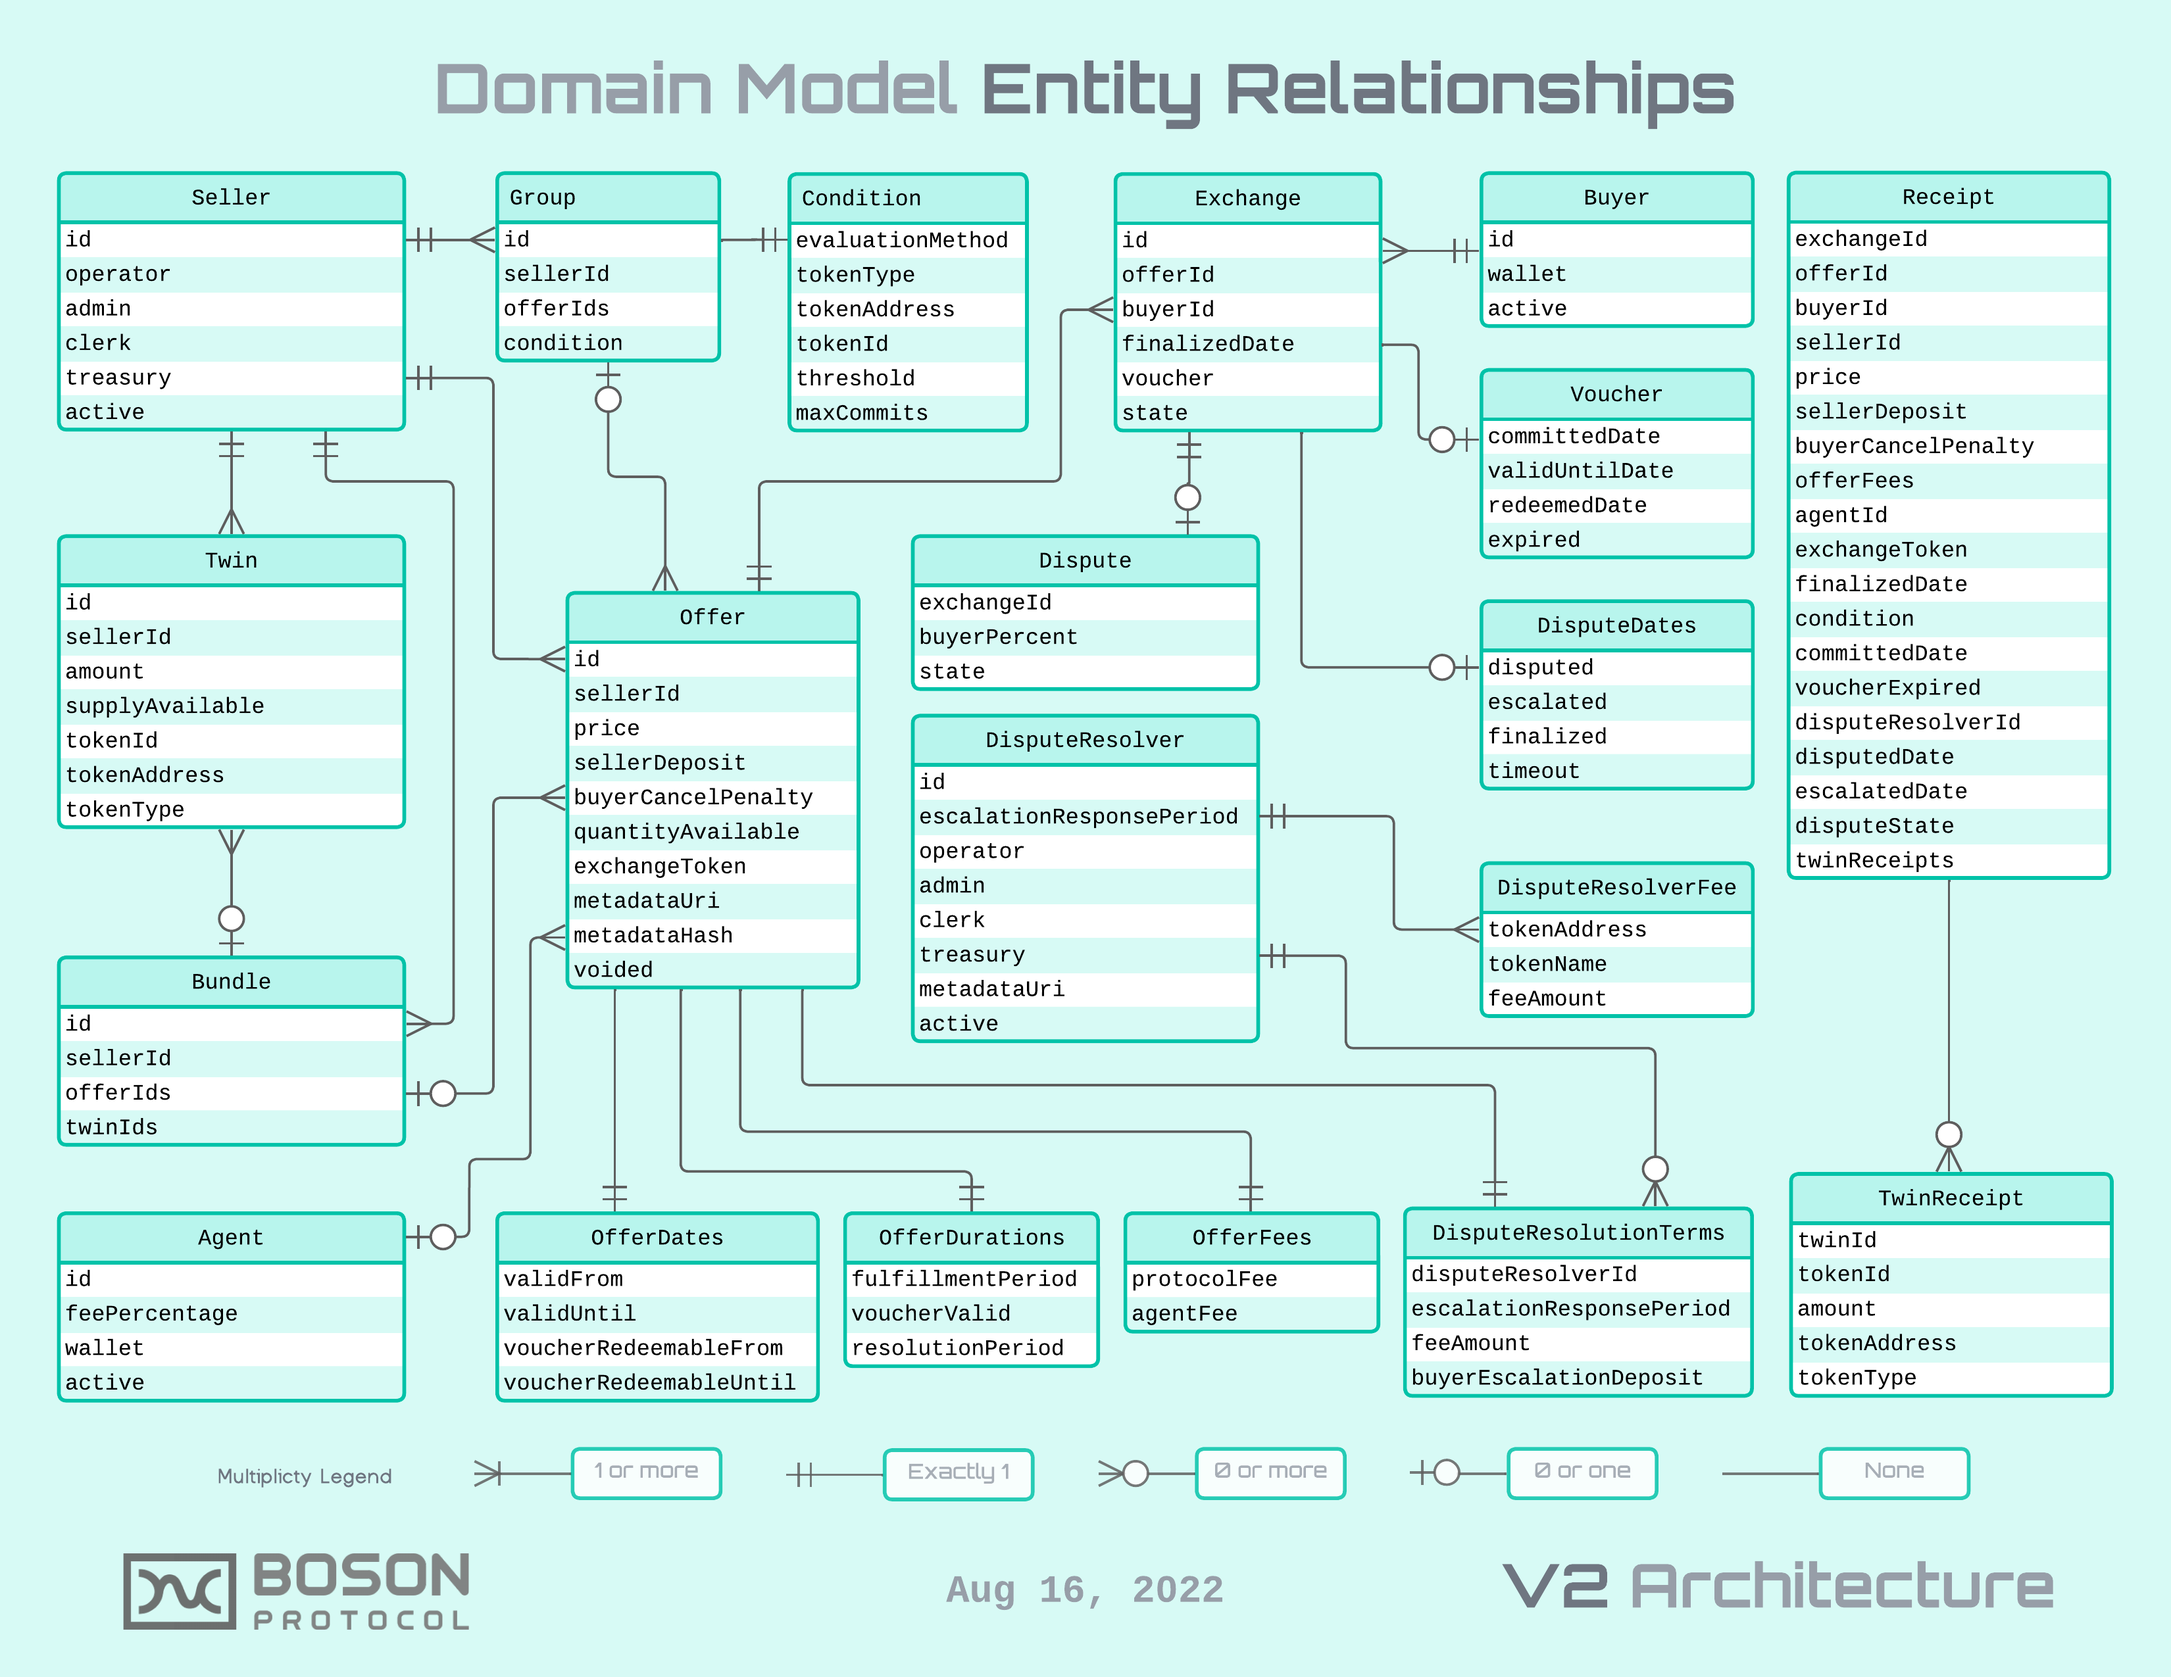
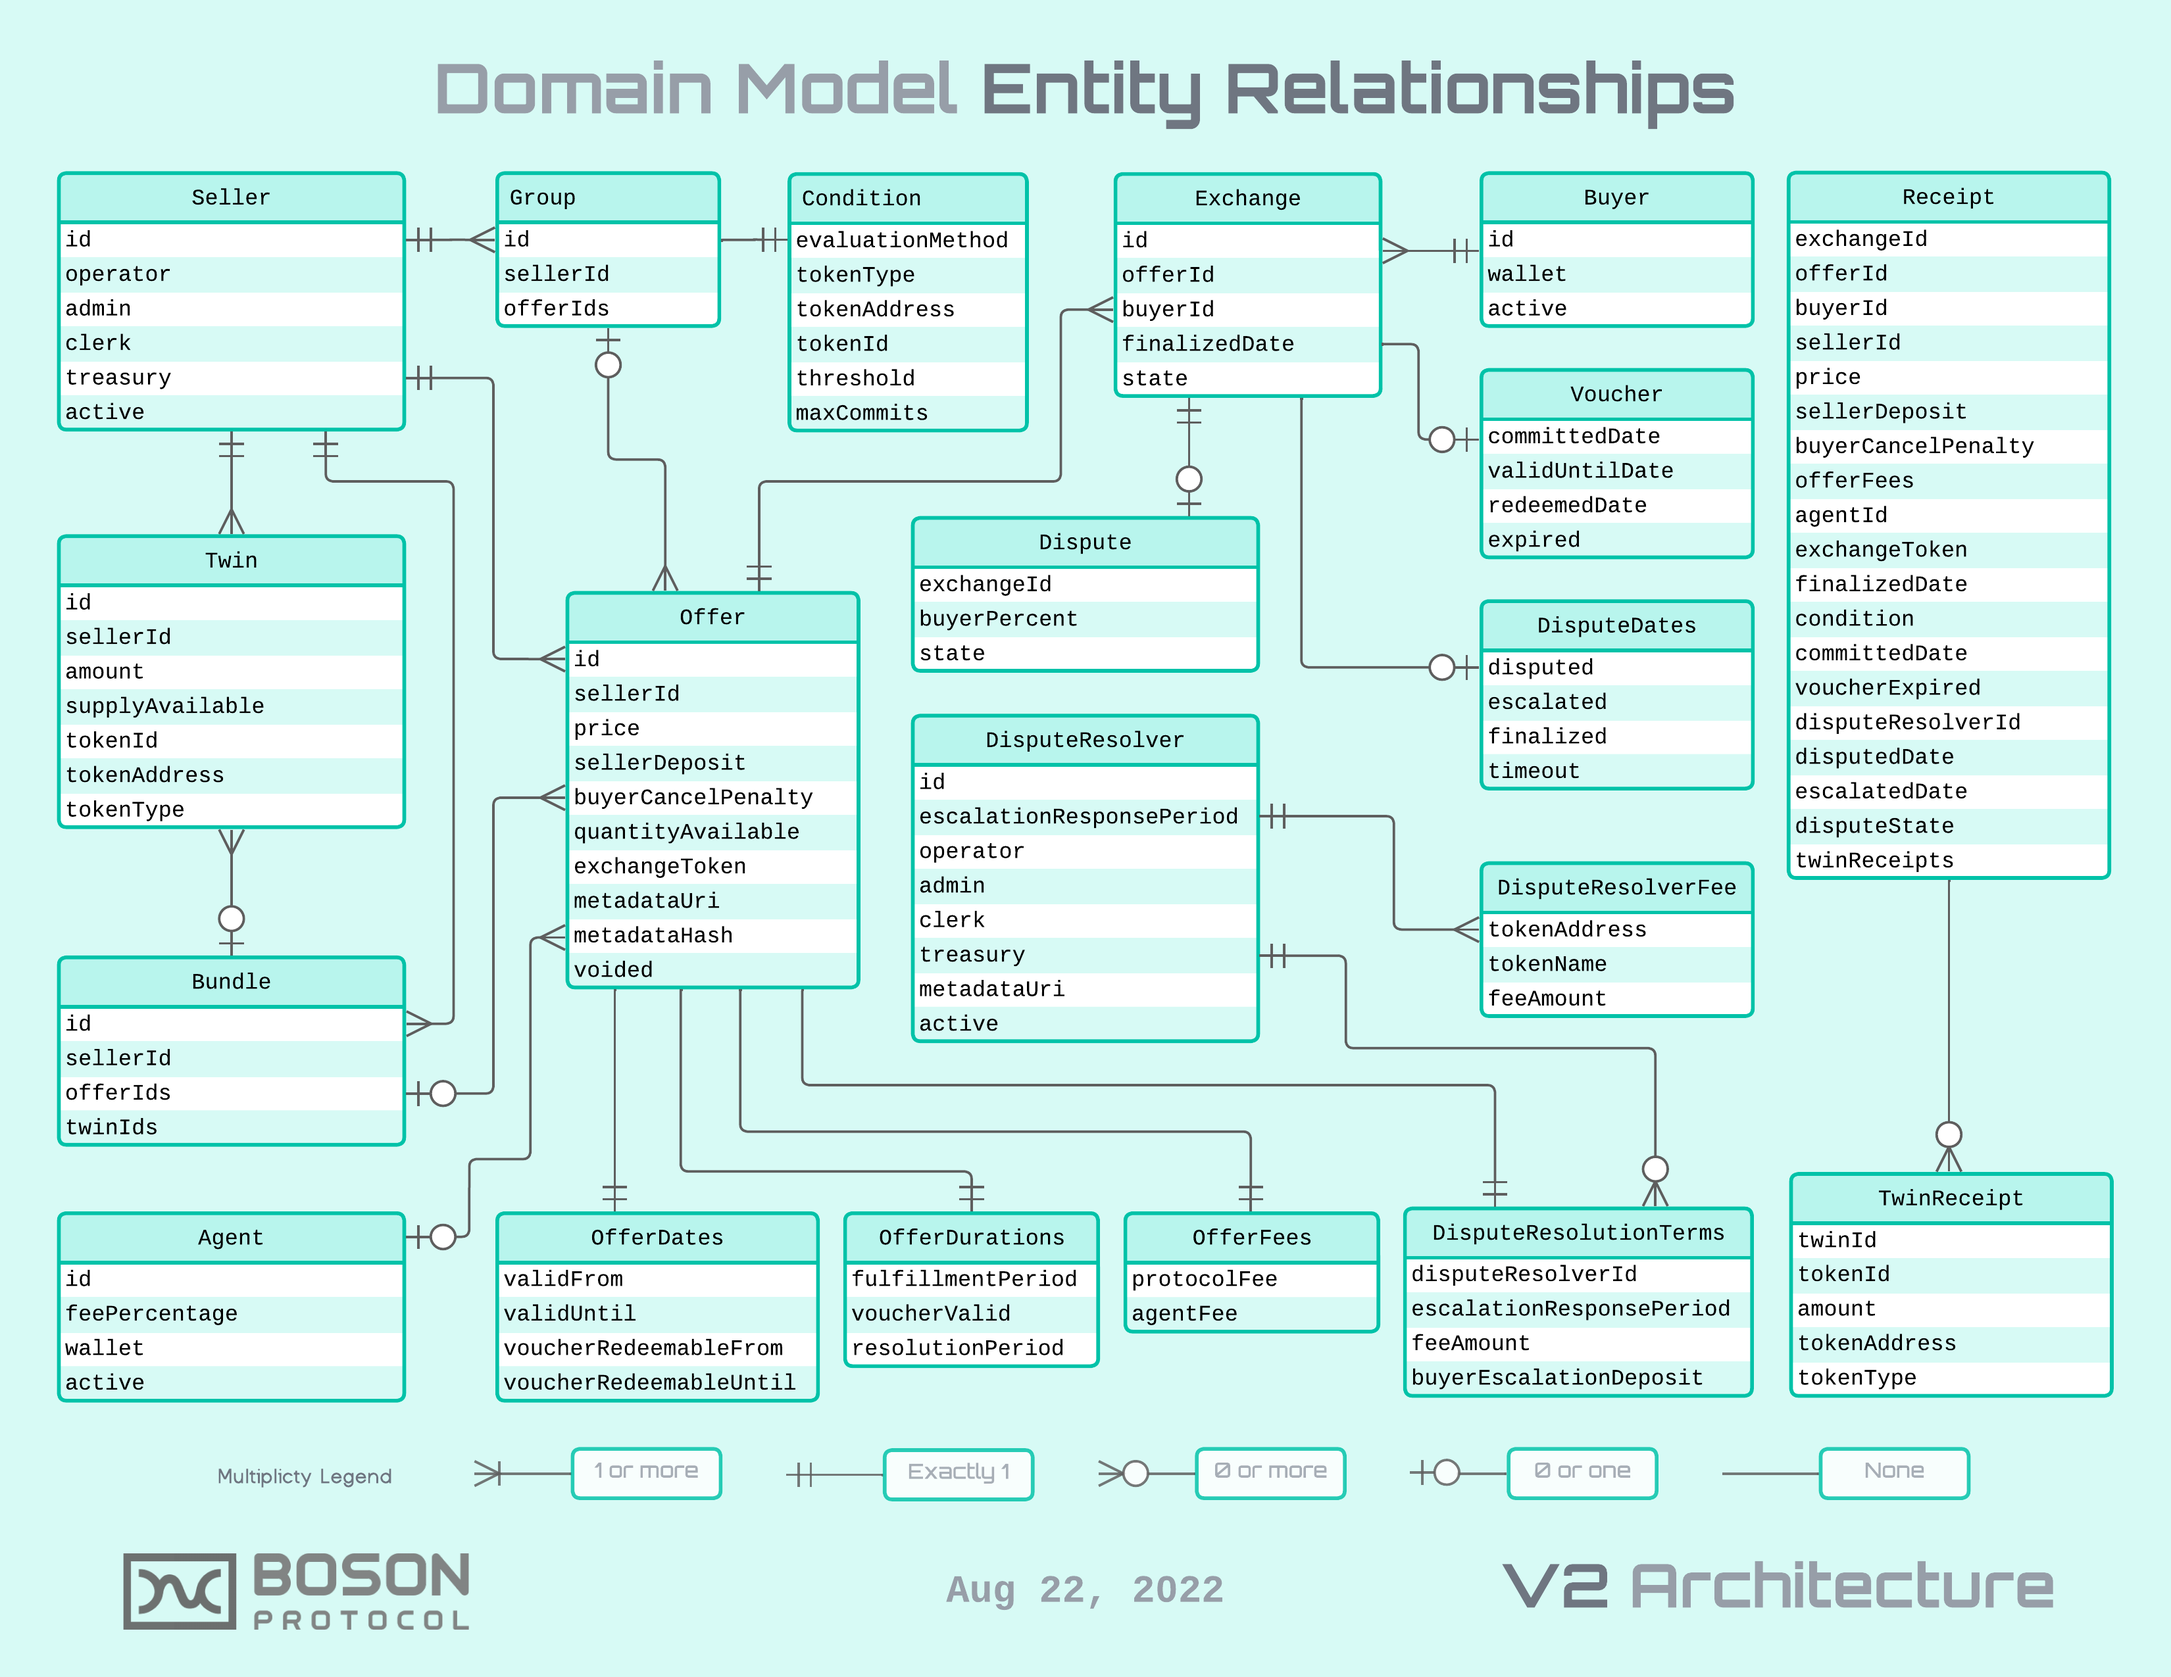
Update architecture diagrams (#282)
* Update architecture diagrams

* Entity relationships
  - remove condition from Group
  - remove voucher from Exchange

* Protocol diamond,
  - remove descriptions of facets
  - update to contain all current facets

* Update architecture diagrams

* In README.md
  - mark Protocol facet contracts and interfaces as done.

Changed region(s): [[0.4058, 0.2169, 0.593, 0.4337], [0.2185, 0.1859, 0.3433, 0.2478], [0.4682, 0.9294, 0.4994, 0.9604]]

diff --git a/README.md b/README.md
@@ -15,8 +15,8 @@ Done or in progress are:
   - ✅ Shared script modules for use in deployment and testing
   - ✅ Github Actions for CI
   - ✅ Support for EIP-712 meta-transactions
+  - ✅ Protocol facet contracts and interfaces
   - 👉 Generated contract documentation 
-  - 👉 Protocol facet contracts and interfaces
   
 ## Developers
   - [Setup](docs/setup.md) - Get going quickly on your local system
